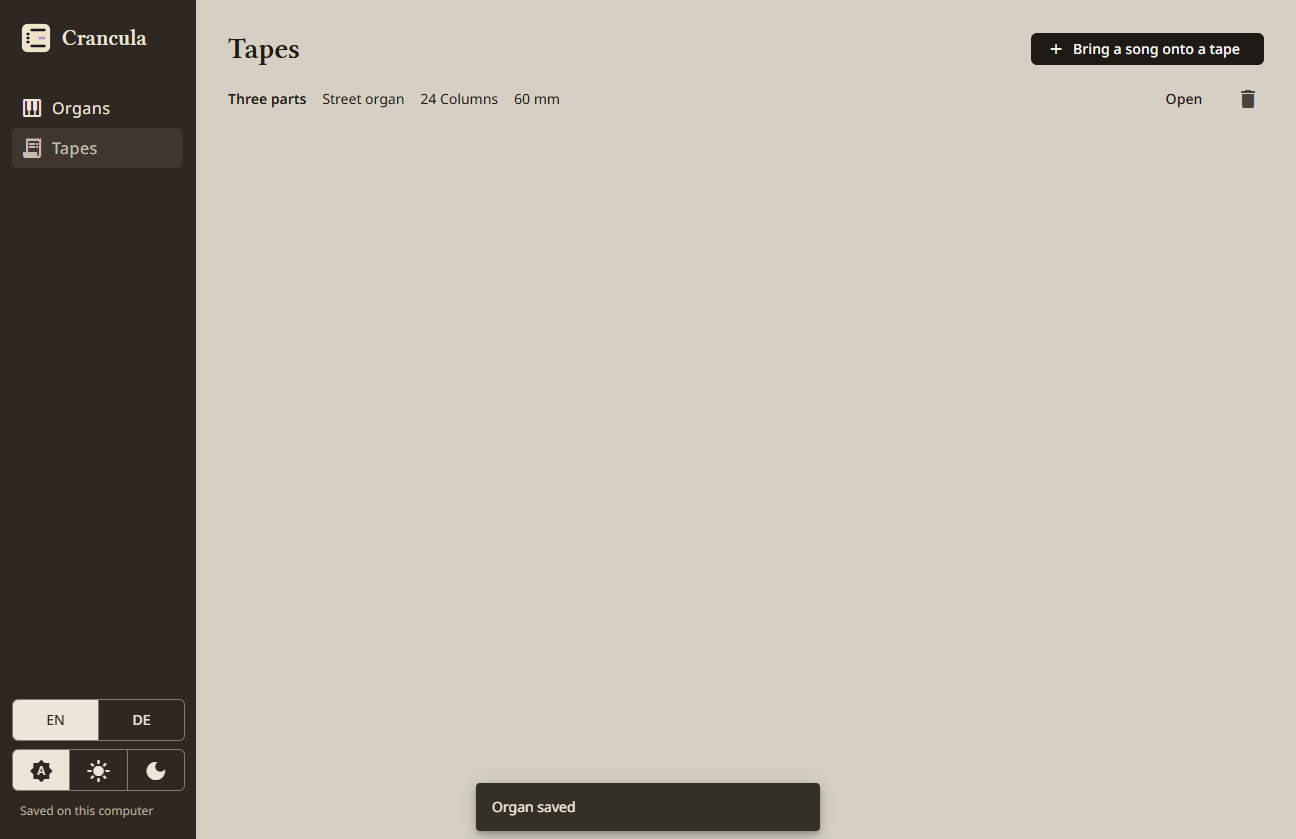
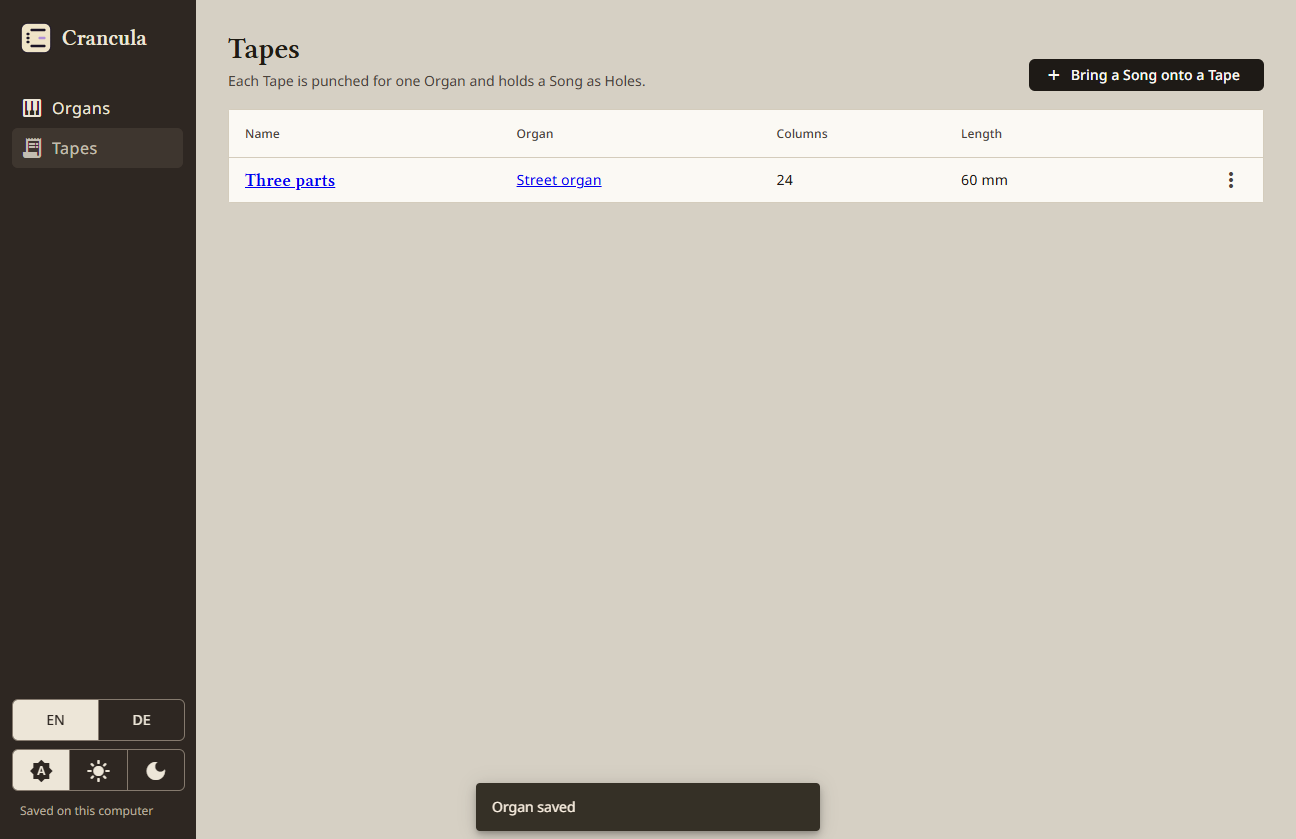
chore(design): list screens and ux-review, 38/50
Refs #66

Changed region(s): [[0.1543, 0.031, 0.9877, 0.2479]]

diff --git a/e2e/ux/screens.capture.ts b/e2e/ux/screens.capture.ts
@@ -44,6 +44,11 @@ test.describe('UX screens', () => {
 
     await capture(window, '02-organ-list-empty');
 
+    await window.getByRole('link', {name: 'Tapes'}).click();
+    await expect(window.getByTestId('empty-new-organ')).toBeVisible();
+    await capture(window, '06b-tape-list-empty-without-organ');
+    await window.getByRole('link', {name: 'Organs'}).click();
+
     await window.getByTestId('new-organ').click();
     await window.getByTestId('name').fill('Street organ');
     await window.getByTestId('tape-width').fill('20');
@@ -87,12 +92,18 @@ test.describe('UX screens', () => {
     await capture(window, '08-tape-view');
 
     await window.getByTestId('tape-scroll').locator('[data-testid="hole"]').first().click();
-    await expect(window.getByTestId('tape-scroll').locator('[data-testid="hole"][aria-selected="true"]')).toHaveCount(1);
+    await expect(window.getByTestId('tape-scroll').locator('rect.hole.selected')).toHaveCount(1);
     await window.mouse.move(640, 400);
     await capture(window, '08b-tape-view-selected-hole');
 
     await window.getByRole('link', {name: 'Tapes'}).click();
     await capture(window, '09-tape-list');
+
+    await window.getByRole('link', {name: 'Organs'}).click();
+    await window.getByTestId('organ-tapes').click();
+    await expect(window.getByTestId('organ-filter')).toBeVisible();
+    await window.mouse.move(640, 400);
+    await capture(window, '09b-tape-list-filtered-by-organ');
 
     await window.getByTestId('language-switch').locator('[data-language="de"]').click();
     await window.getByRole('link', {name: 'Orgeln'}).click();
@@ -133,6 +144,16 @@ test.describe('UX screens', () => {
     await expect(window.getByTestId('tape-name')).toBeVisible();
     await window.mouse.move(640, 400);
     await capture(window, '15-tape-view-german');
+
+    await resizeWindow(launched, 1024, 700);
+    await window.getByRole('link', {name: 'Orgeln'}).click();
+    await expect(window.getByTestId('organ-facts')).toBeVisible();
+    await window.mouse.move(640, 400);
+    await capture(window, '16-organ-list-german-compact');
+    await window.getByRole('link', {name: 'Lochbänder'}).click();
+    await expect(window.getByTestId('tape').first()).toBeVisible();
+    await window.mouse.move(640, 400);
+    await capture(window, '17-tape-list-german-compact');
     await window.getByTestId('language-switch').locator('[data-language="en"]').click();
   });
 });

diff --git a/documentation/design/screens/current/ux-review.md b/documentation/design/screens/current/ux-review.md
@@ -1,20 +1,20 @@
-# UX review: running app, screens/current (2026-10-16, after #65)
+# UX review: running app, screens/current (2026-10-16, after #66)
 
-Previous: 36/50 (after #64), 33/50 (after #63), 30/50 (after #62), 29/50 (before #62)
+Previous: 36/50 (after #65), 36/50 (after #64), 33/50 (after #63), 30/50 (after #62), 29/50 (before #62)
 
 | H1 | H2 | H3 | H4 | H5 | H6 | H7 | H8 | H9 | H10 | Total |
 |----|----|----|----|----|----|----|----|----|-----|-------|
-| 4  | 3  | 4  | 3  | 4  | 3  | 3  | 3  | 4  | 5   | 36/50 |
+| 4  | 4  | 4  | 4  | 4  | 3  | 3  | 3  | 4  | 5   | 38/50 |
 
-After #65 (Tape view: page head with Organ and zoom, ruler in mm, Column numbers, row labels, overview strip, status line, side panel with Tape section, Selected Hole and Import Summary, one screen at 1024x700). H6 gains one: the Tape has a ruler, labels and a selectable Hole (08b), and the view fits one screen (14). H7 loses one: the zoom buttons and the Organ link are unstyled browser defaults, and the side panel headings mix serif and bold sans. Net score unchanged. New screens: 08b (selected Hole), 14 (1024x700), 15 (German).
+After #66 (Organ and Tape lists as ledgers: Tape Bed miniature and facts line, Tapes count link, row menu, next-step strip, Organ filter chip, guiding empty states, both lists fit German at 1024x700). H2 gains one: the empty states give a first step (02, 06, 06b) and the Organ list says what comes next (05). H4 gains one: both ledgers share one structure, and the filter and "Show all Tapes" are consistent. H7 stays: names and Organ cells are default-blue underlined links. New screens: 06b (Tape list without an Organ), 09b (filtered by Organ), 16 and 17 (German at 1024x700). The capture script's selected-Hole check (08b) had a stale selector and is fixed.
 
 ## Findings
 1. **[sev 3] H6 - 08, 08b, 11, 14, 15** - The Tape drawing fills about a third of the stage at 1280 px (and a quarter at 1024 px); the rest is empty beige, and the last ruler number is clipped ("6" for 60). Whole Tape does not scale to the stage. Fix: fit the Tape to the stage width at "Whole Tape", never clip the end ruler number. Tag: new (follow-up to #65).
 2. **[sev 2] H7 - 08, 14, 15** - The zoom group (Whole Tape, 1:1, 2:1) uses unstyled default buttons and the Organ link is default blue; the Import Summary and Tape section headings differ (serif h2 vs. small bold). At 1024 px the head buttons wrap to two lines ("Whole Tape", "Export for the Plotter"). Fix: Material segmented buttons, themed link colour, one heading style. Tag: new (follow-up to #65) / #69 for the Import Summary.
 3. **[sev 2] H6 - 14** - Row labels are clipped on the left at 1024 px ("#3", "#4" without the note letter) and in 08 ("G#3" touches the edge). Fix: widen the label gutter or hide sharps below 1180 px. Tag: new (follow-up to #65).
 4. **[sev 2] H5 - 08, 08b, 15** - The "Organ saved" snackbar from the Organ editor still floats on the Tape view, in English in the German UI (15). Fix: dismiss on navigation, translate. Tag: new (known from #64).
-5. **[sev 2] H2 - 02-organ-list-empty, 06-tape-list-empty** - Empty states are one grey line; no guided first step. Tag: #66.
-6. **[sev 2] H7 - 05-organ-list, 09-tape-list** - Lists are plain rows with bare icons and unlabelled facts. Tag: #66.
+5. **[sev 2] H7 - 05, 09, 09b, 16, 17** - Ledger names and the Organ cells are default browser-blue underlined links, clashing with the walnut theme and the serif names. Fix: themed link colour, underline on hover only. Tag: new (follow-up to #66).
+6. **[sev 2] H2 - 06b** - With no Organ the primary button "Bring a Song onto a Tape" is still shown and enabled next to "describe your Organ first"; two competing steps. Fix: make New Organ the primary action there. Tag: new (follow-up to #66).
 7. **[sev 2] H2 - 07-tape-import** - The chosen file is not shown as a chip, "Use proposal" is unexplained and the fit result is a plain list without a warning state. Tag: #69.
 8. **[sev 2] H4 - 03, 04, 13** - Floating labels of the MIDI note fields are cut and the Pipe rack header runs together in German (10). Tag: new (follow-up to #64).
 9. **[sev 2] H8 - 12, 13, 14** - The compact rail has icon-only nav and stacked toggles without visible labels; disabled Save and the "Saved on this computer" note are low contrast. Tag: new.

diff --git a/documentation/design/tasks.md b/documentation/design/tasks.md
@@ -569,7 +569,7 @@ menu item), `tape`, `tape-name`, `tape-organ`, `tape-length-columns`, `tape-leng
   with its chip; removing the chip shows all Tapes; on a fresh app the Tape list's empty sentence
   links to New Organ. In German at 1024×700 (`resizeWindowOrSkip`) neither ledger scrolls sideways
   and no facts line overflows its cell. Needs the real stores, routing and layout.
-- [ ] **G14** Full `npm run e2e`, `npm run test`, `npm run lint`, `npm run i18n:check`. Then
+- [x] **G14** Full `npm run e2e`, `npm run test`, `npm run lint`, `npm run i18n:check`. Then
   `npm run ux:screens` (02 and 06 empty states, 06b the Tape list empty without an Organ, 05 with
   the next-step strip, 09 the Tape ledger and 09b filtered by an Organ, both lists in German at
   1024×700), `ux-review`; score into STATUS.
